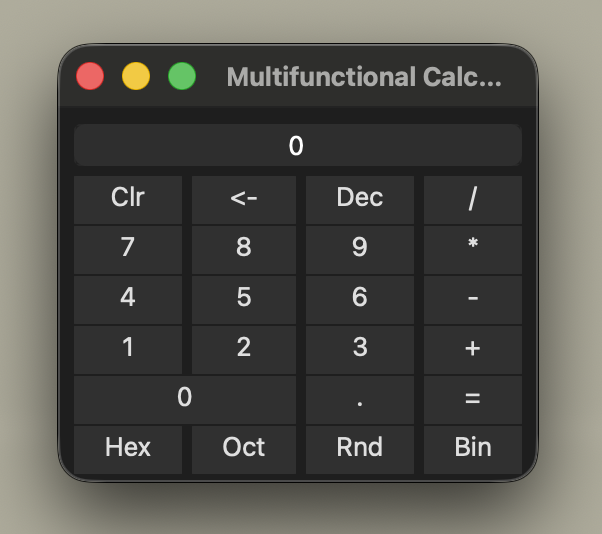
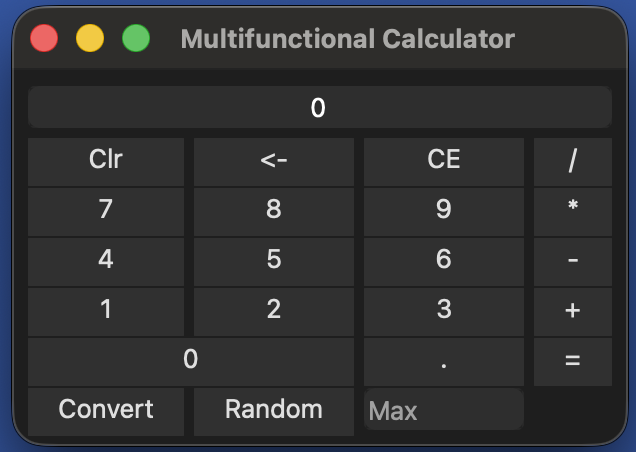
terminando, se agrego CE random con limite, se cambio video y imgs

diff --git a/src/UICalculator.cpp b/src/UICalculator.cpp
@@ -109,7 +109,7 @@ void UICalculator::createUtilityAndOperatorButtons() {
 
   // Create all buttons (no parent; layout will reparent)
   if (!btnClr)
-    btnClr = new QPushButton("Clr");
+    btnClr = new QPushButton("Clear");
   if (!btnBck)
     btnBck = new QPushButton("<-");
   if (!btnCE)
@@ -126,6 +126,12 @@ void UICalculator::createUtilityAndOperatorButtons() {
     btnEql = new QPushButton("=");
   if (!btnRan)
     btnRan = new QPushButton("Random");
+  // Create input for Random max (optional user-specified upper bound)
+  if (!editRandomMax) {
+    editRandomMax = new QLineEdit(this);
+    editRandomMax->setPlaceholderText("Max");
+    editRandomMax->setMaximumWidth(80);
+  }
   if (!btnConvert)
     btnConvert = new QPushButton("Convert");
 
@@ -148,6 +154,7 @@ void UICalculator::createUtilityAndOperatorButtons() {
   qDebug() << "[UICalculator] placing tools row (Convert/Rnd)";
   btnOrganizer->addWidget(btnConvert, 6, 0);
   btnOrganizer->addWidget(btnRan, 6, 1);
+  btnOrganizer->addWidget(editRandomMax, 6, 2);
 
   // Connections
   connect(btnClr, &QPushButton::clicked, this, [this] { onClearPressed(); });
@@ -436,38 +443,52 @@ QString UICalculator::formatValue(long double v, int baseCode) const {
 /// Uses Engine::Random, displays the generated value in decimal, and prepares
 /// it as value1 for chaining operations.
 void UICalculator::onRandomPressed() {
-  {
-    if (!engine_ || !symbolShower)
-      return;
+  if (!engine_ || !symbolShower)
+    return;
 
-    // Detect if there is a pending binary operator with a confirmed first
-    // operand
-    const bool hasPendingOp =
-        (engine_->op() != Engine::Op::None) && engine_->hasV1();
-
-    // Generate a random value without disturbing current op/state
-    auto res = engine_->random();
-    if (!res.has_value())
-      return;
-    long double r = *res;
-
-    // Show it
-    symbolShower->setText(QString::number(static_cast<double>(r)));
-
-    if (hasPendingOp) {
-      // We already have v1 and an operator: treat Random as v2
-      value2_ = r;
-      enteringFirst_ = false;      // ensure subsequent commit targets v2
-      engine_->setValue2(value2_); // keep existing op intact
-    } else {
-      // No operator pending: treat Random as v1 and prepare for operator next
-      value1_ = r;
-      value2_ = 0.0L;
-      enteringFirst_ = true; // ensure onOperatorPressed commits as value1
-      engine_->clear();      // start fresh with v1 only
-      engine_->setValue1(value1_);
+  // Read optional max from the edit box; default to 999999 if empty/invalid
+  long long max = 999999; // default
+  if (editRandomMax) {
+    bool ok = false;
+    const QString t = editRandomMax->text().trimmed();
+    if (!t.isEmpty()) {
+      long long v = t.toLongLong(&ok, 10);
+      if (ok)
+        max = (v < 0 ? -v : v); // absolute value if negative
     }
   }
+
+  // Detect if there is a pending binary operator with a confirmed first operand
+  const bool hasPendingOp =
+      (engine_->op() != Engine::Op::None) && engine_->hasV1();
+
+  // Generate a random value in [0, |max|]
+  auto res = engine_->random(max);
+  if (!res.has_value())
+    return;
+  long double r = *res;
+
+  // Show it
+  symbolShower->setText(QString::number(static_cast<double>(r)));
+
+  if (hasPendingOp) {
+    // We already have v1 and an operator: treat Random as v2
+    value2_ = r;
+    enteringFirst_ = false;      // ensure subsequent commit targets v2
+    engine_->setValue2(value2_); // keep existing op intact
+  } else {
+    // No operator pending: treat Random as v1 and prepare for operator next
+    value1_ = r;
+    value2_ = 0.0L;
+    enteringFirst_ = true; // next op press commits as v1
+    engine_->clear();      // start fresh with v1 only
+    engine_->setValue1(value1_);
+  }
+
+  // Optional: log to history if available
+  history_ << QString("Random(0..%1) -> %2")
+                  .arg(QString::number(max))
+                  .arg(QString::number(static_cast<double>(r)));
 }
 
 /// @brief Convert current display value to Hex, Oct, Bin and show one's/two's

diff --git a/src/UICalculator.h b/src/UICalculator.h
@@ -1,4 +1,4 @@
-/****
+/**
  * @file UICalculator.h
  * @brief Declaration of the UICalculator class (main application window).
  *
@@ -12,6 +12,7 @@
 #pragma once
 
 #include <QString>
+#include <QStringList>
 #include <QWidget>
 
 // Lightweight forward declarations to keep the header minimal
@@ -147,8 +148,10 @@ private:
   // Utility / operator buttons
   QPushButton *btnClr = nullptr; ///< Clear (reset display and input state).
   QPushButton *btnCE = nullptr; ///< Clear (reset only the number been entered).
-  QPushButton *btnBck = nullptr;     ///< Backspace (remove one character).
-  QPushButton *btnRan = nullptr;     ///< (Optional) helper button (Rnd).
+  QPushButton *btnBck = nullptr; ///< Backspace (remove one character).
+  QPushButton *btnRan = nullptr; ///< (Optional) helper button (Rnd).
+  QLineEdit *editRandomMax =
+      nullptr; ///< Max bound for Random (interpreted as |max|).
   QPushButton *btnEql = nullptr;     ///< Equals (=) triggers evaluation.
   QPushButton *btnSub = nullptr;     ///< Subtraction (−).
   QPushButton *btnAdd = nullptr;     ///< Addition (+).
@@ -165,4 +168,6 @@ private:
   bool enteringFirst_ =
       true;                  ///< true while filling value1_, false for value2_.
   Engine *engine_ = nullptr; ///< Calculation engine managed by the UI.
+
+  QStringList history_; ///< Simple history log of operations and conversions.
 };

diff --git a/src/engine.cpp b/src/engine.cpp
@@ -170,17 +170,18 @@ std::optional<long double> Engine::toBin() const {
 }
 
 /**
- * @brief Generate a random number for the calculator.
- *
- * Currently returns an integer in [0, 999999]. The UI may format this value
- * or adjust the range as needed.
- *
- * @return A random value as long double.
+ * @brief Generate a random number between 0 and |max|.
+ * @param max Upper bound (inclusive/exclusive depending on distribution).
+ * @return A random value between 0 and abs(max).
  */
-std::optional<long double> Engine::random() const {
+std::optional<long double> Engine::random(long long int max) const {
+  if (max == 0)
+    return 0.0L;
+  long long int upper = std::llabs(max);
+
   std::random_device rd;
   std::mt19937 gen(rd());
-  std::uniform_int_distribution<long long> dist(0, 999999);
+  std::uniform_int_distribution<long long> dist(0, upper);
   return static_cast<long double>(dist(gen));
 }
 
@@ -209,7 +210,7 @@ std::optional<long double> Engine::evaluate() const {
   case Op::ToBin:
     return toBin();
   case Op::Random:
-    return random();
+    return random(999999); // default max if not specified
   case Op::None:
   default:
     return std::nullopt;

diff --git a/src/engine.h b/src/engine.h
@@ -106,10 +106,11 @@ public:
   toBin() const; // value1 passthrough; UI formats base
 
   /**
-   * @brief Generate a random number.
-   * @return A random value (long double).
+   * @brief Generate a random number between 0 and |max|.
+   * @param max Upper bound (absolute value is used if negative).
+   * @return A random value between 0 and abs(max).
    */
-  std::optional<long double> random() const;
+  std::optional<long double> random(long long int max) const;
 
   // --- Dispatch helper using current op (implemented in engine.cpp) ---
   /**
